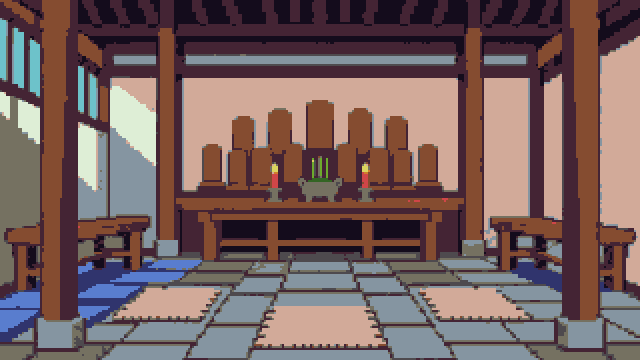
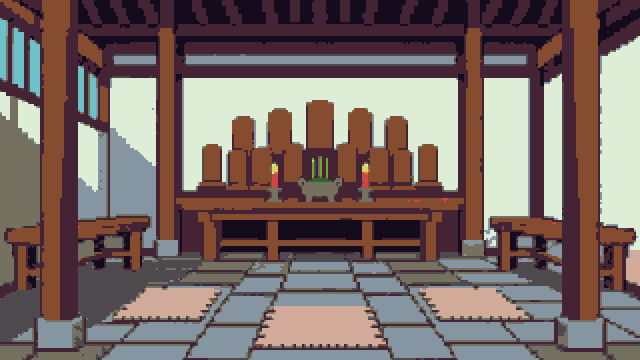
ART: fix hall background colors (white walls, gray floor)

diff --git a/tools/art/fix_hall.py b/tools/art/fix_hall.py
@@ -1,0 +1,22 @@
+"""Hand-fix for the hall background (ART-002 §10 step 4): whitewashed walls were snapped to pink skin
+(#d2aa99) and floor shadows to bright blue (#597dce). Above the floor line pink -> wall white
+(#deeed6); straw mats on the floor pink -> straw (#d27d2c is too strong, use #dad45e only on edges)
+-> keep mats as #d2aa99; blue -> stone gray (#8595a1 / #4e4a4e). Usage: python fix_hall.py IN OUT"""
+import sys
+from PIL import Image
+PINK, WHITE = (210, 170, 153), (222, 238, 214)
+BLUE, NAVY, GRAY, DARK = (89, 125, 206), (48, 52, 109), (133, 149, 161), (78, 74, 78)
+im = Image.open(sys.argv[1]).convert("RGB")
+w, h = im.size
+floor = int(h * 0.70)  # floor line (pixels below this are floor)
+px = im.load()
+for y in range(h):
+    for x in range(w):
+        c = px[x, y]
+        if c == PINK and y < floor:
+            px[x, y] = WHITE
+        elif c == BLUE:
+            px[x, y] = GRAY if y < floor else DARK
+        elif c == NAVY and y >= floor:
+            px[x, y] = DARK
+im.save(sys.argv[2])

diff --git a/AI_LOG.md b/AI_LOG.md
@@ -35,3 +35,4 @@
 | 2026-11-24 | Claude Code（Claude Opus 5.5） | 战斗和界面美术（ART-001 §3.1–3.3、§3.5）：`tools/art/make_battle_art.py` 逐像素画出地块 26 块（田地、道路、民房、滩涂干 / 淹、海滩、海 2 帧、栅栏和石墙各三态、栅栏门和城门开 / 关、望楼和敌台、烽火未点和燃烧 2 帧、宗祠一带、堡内、障碍）、单位 19 个（三代主角、三个同伴、枪兵、民兵、弩手、工匠、信使、长辈、峤叔、村民两个、海寇、斧手、陆魁、弓箭船 32×16）、界面 21 个（光标、移动框、目标、意图箭头和“？”、潮汐四态和风暴潮、粮食 / 材料 / 人口、对话框和按钮九宫格、门边的灯、三色放灯、斩击 2 帧）。单位用同一个身体模板，换帽子、颜色和武器；石墙按永昌堡斜垒石块画。文件名和战斗代码里的地形名、单位 id 对应，代码还没接图 | 待负责人审；三色灯暂定乡亲橙、守军红、主角和同伴黄 |
 | 2026-11-24 | Google Gemini 网页版 + Claude Code（Claude Opus 5.5） | 道具小图 8 张 `assets/art/props/`（32×32）：石锤、长枪、灶台和粥碗、稻谷、渔网、衣服和红布、襁褓由 Gemini 直接画 32×32 图标（品红底），Claude 按网格取色、去底；粮册 Gemini 画歪了，改由 `tools/art/make_ledger.py` 逐像素画。结局：拼字龙灯插图 `assets/art/ending/dragon_lantern.png`（320×180，`tools/art/make_dragon_lantern.py` 用龙身各节拼出“天下太平”，红黄绿蓝四色，黑龙头尾）；宗祠牌位框 `assets/art/ui/tablet_9patch.png` | 待负责人审；龙灯是第一版，龙头龙尾偏小 |
 | 2026-11-24 | Claude Code（Claude Opus 5.5） | 把美术接进游戏：剧情 20 个场景配上四张背景（`story.json` 的 by_scene），按代整体调色（gen_tints）、夜场再压暗（night_scenes）；战斗地图有图就画图（地块、栅栏和石墙按 HP 换完好 / 裂 / 废墟、门开关、障碍、烽火 2 帧、海 2 帧、单位按种类和代选图），没图时退回色块；结局放灯换成三色灯图、门边的灯、河边背景调夜色、拼字龙灯插图（320×180）。两个测试按有图的情况更新 | 场景和背景的对应是 Claude 按剧本内容定的，待负责人审 |
+| 2026-11-24 | Claude Code（Claude Opus 5.5） | 宗祠背景手修（`tools/art/fix_hall.py`）：压色时白墙变成皮肤色、地面阴影变成亮蓝，按区域改回白墙和石灰色 | — |
